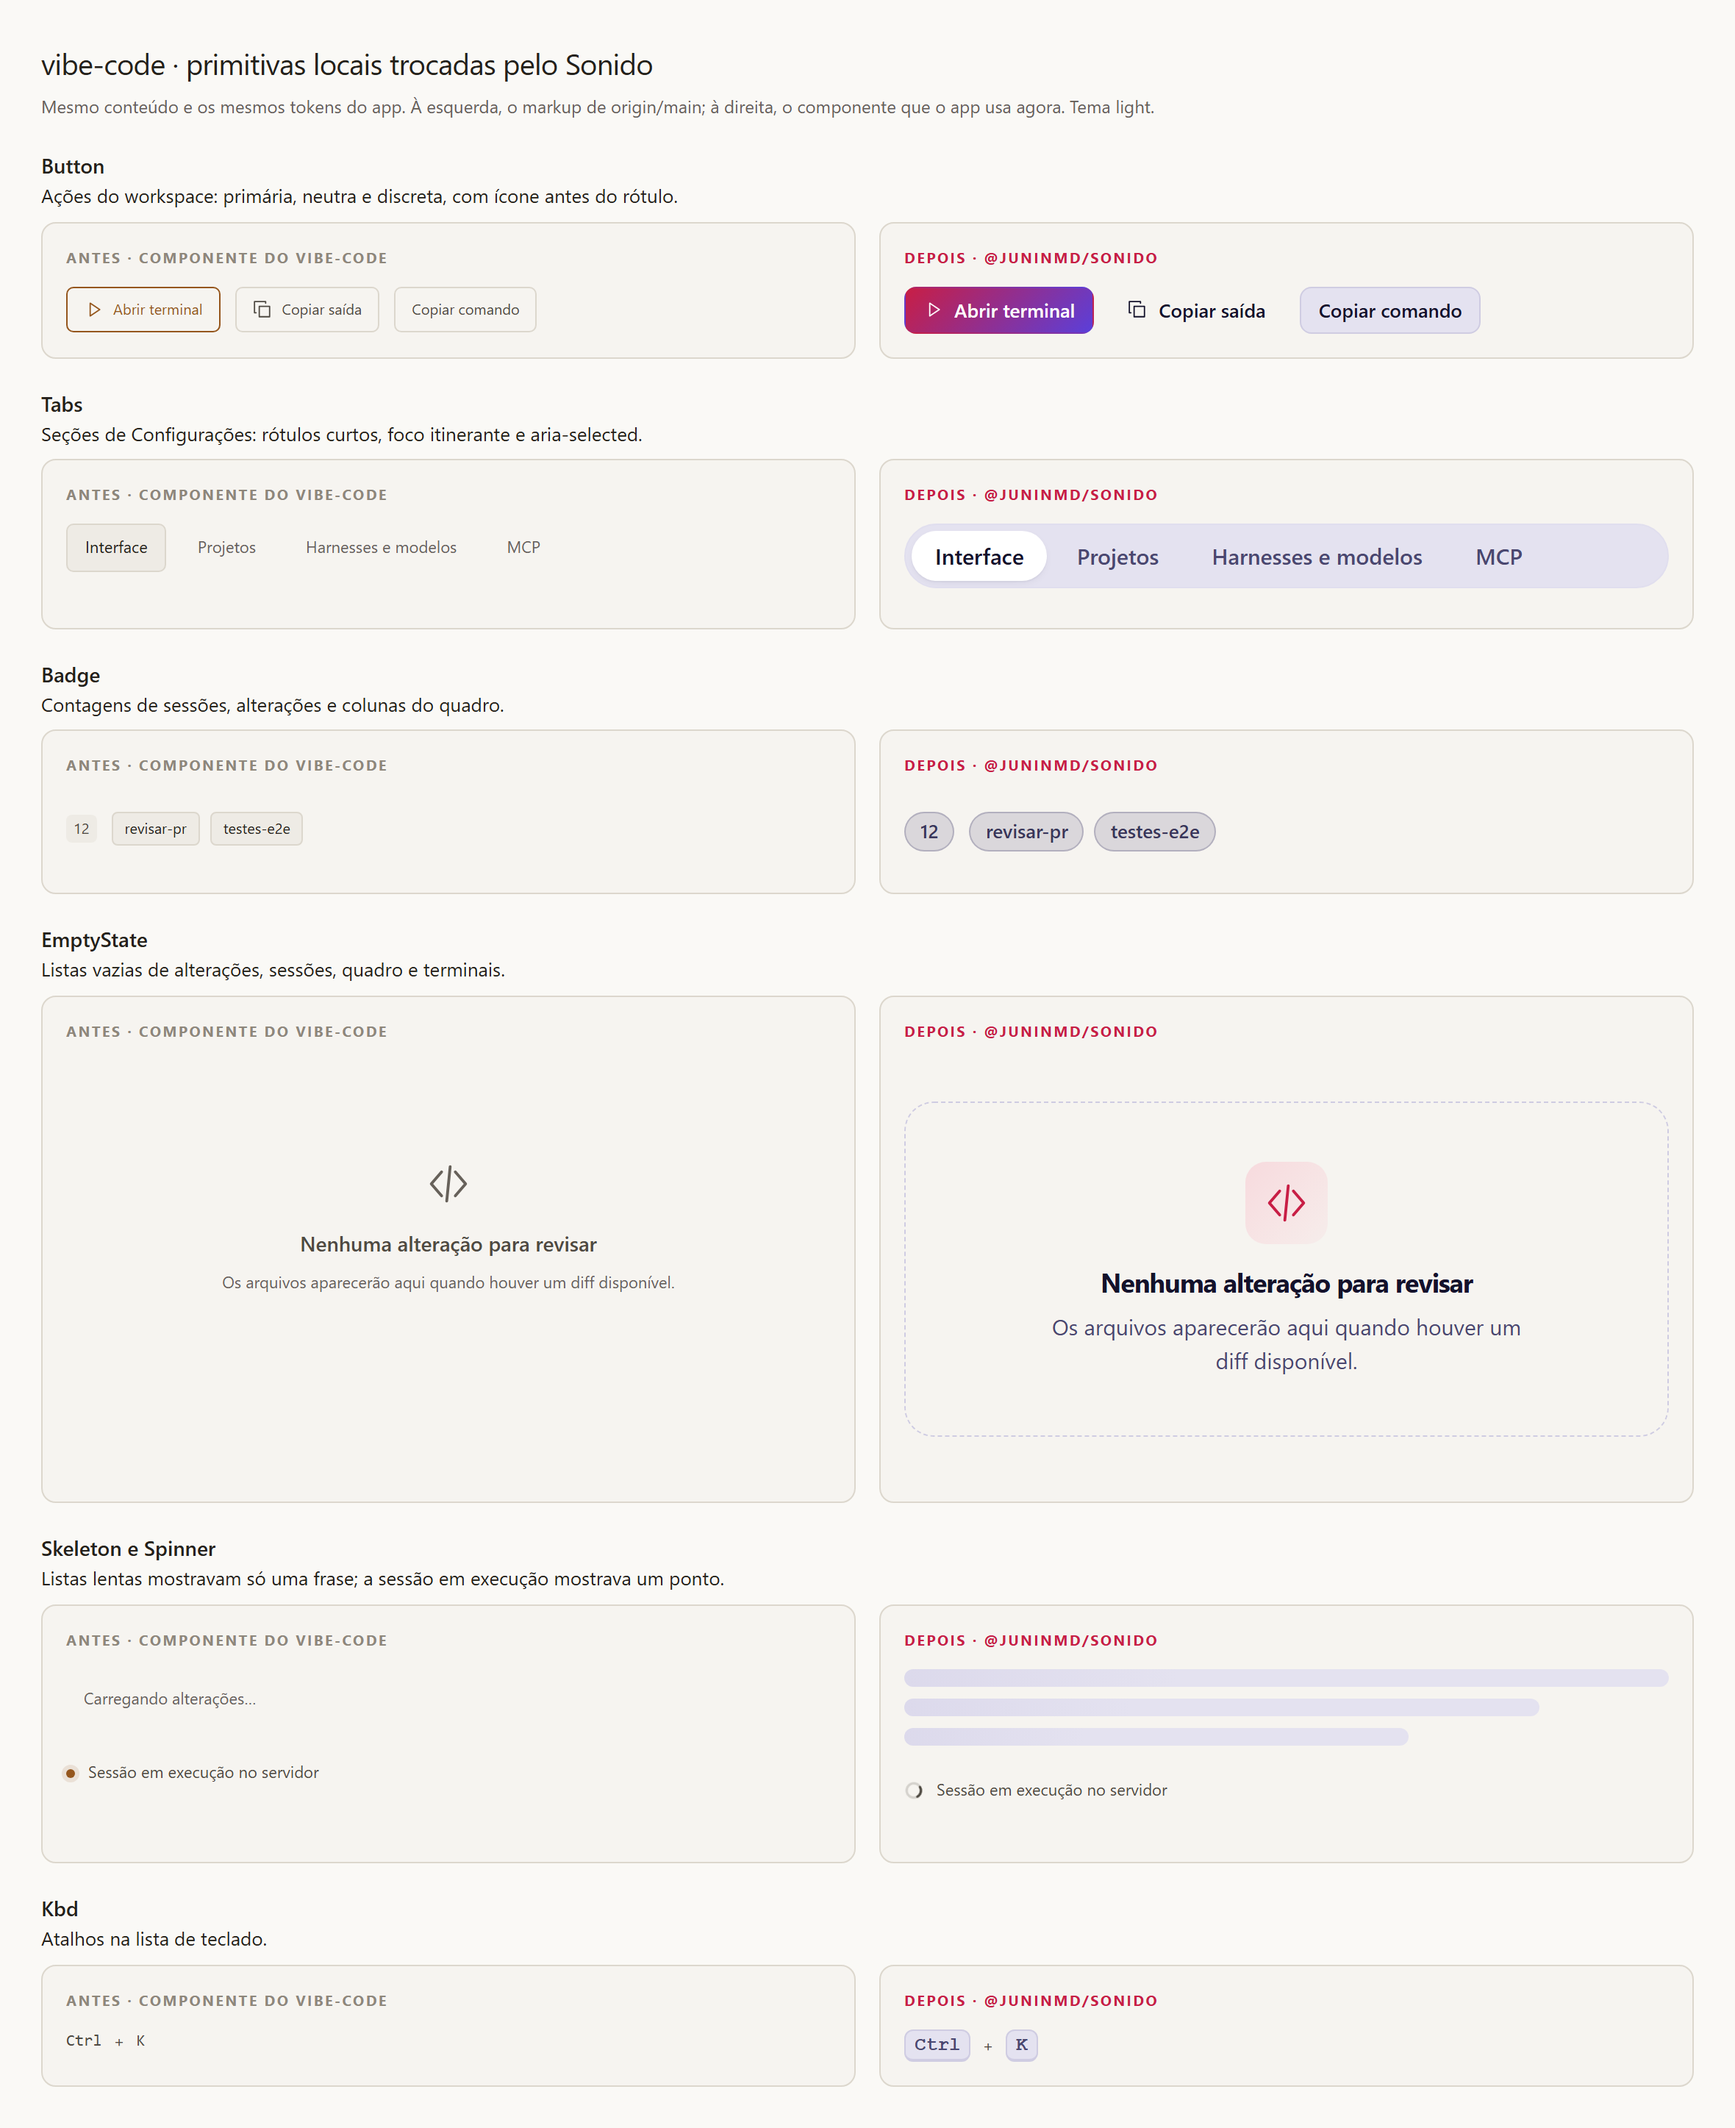
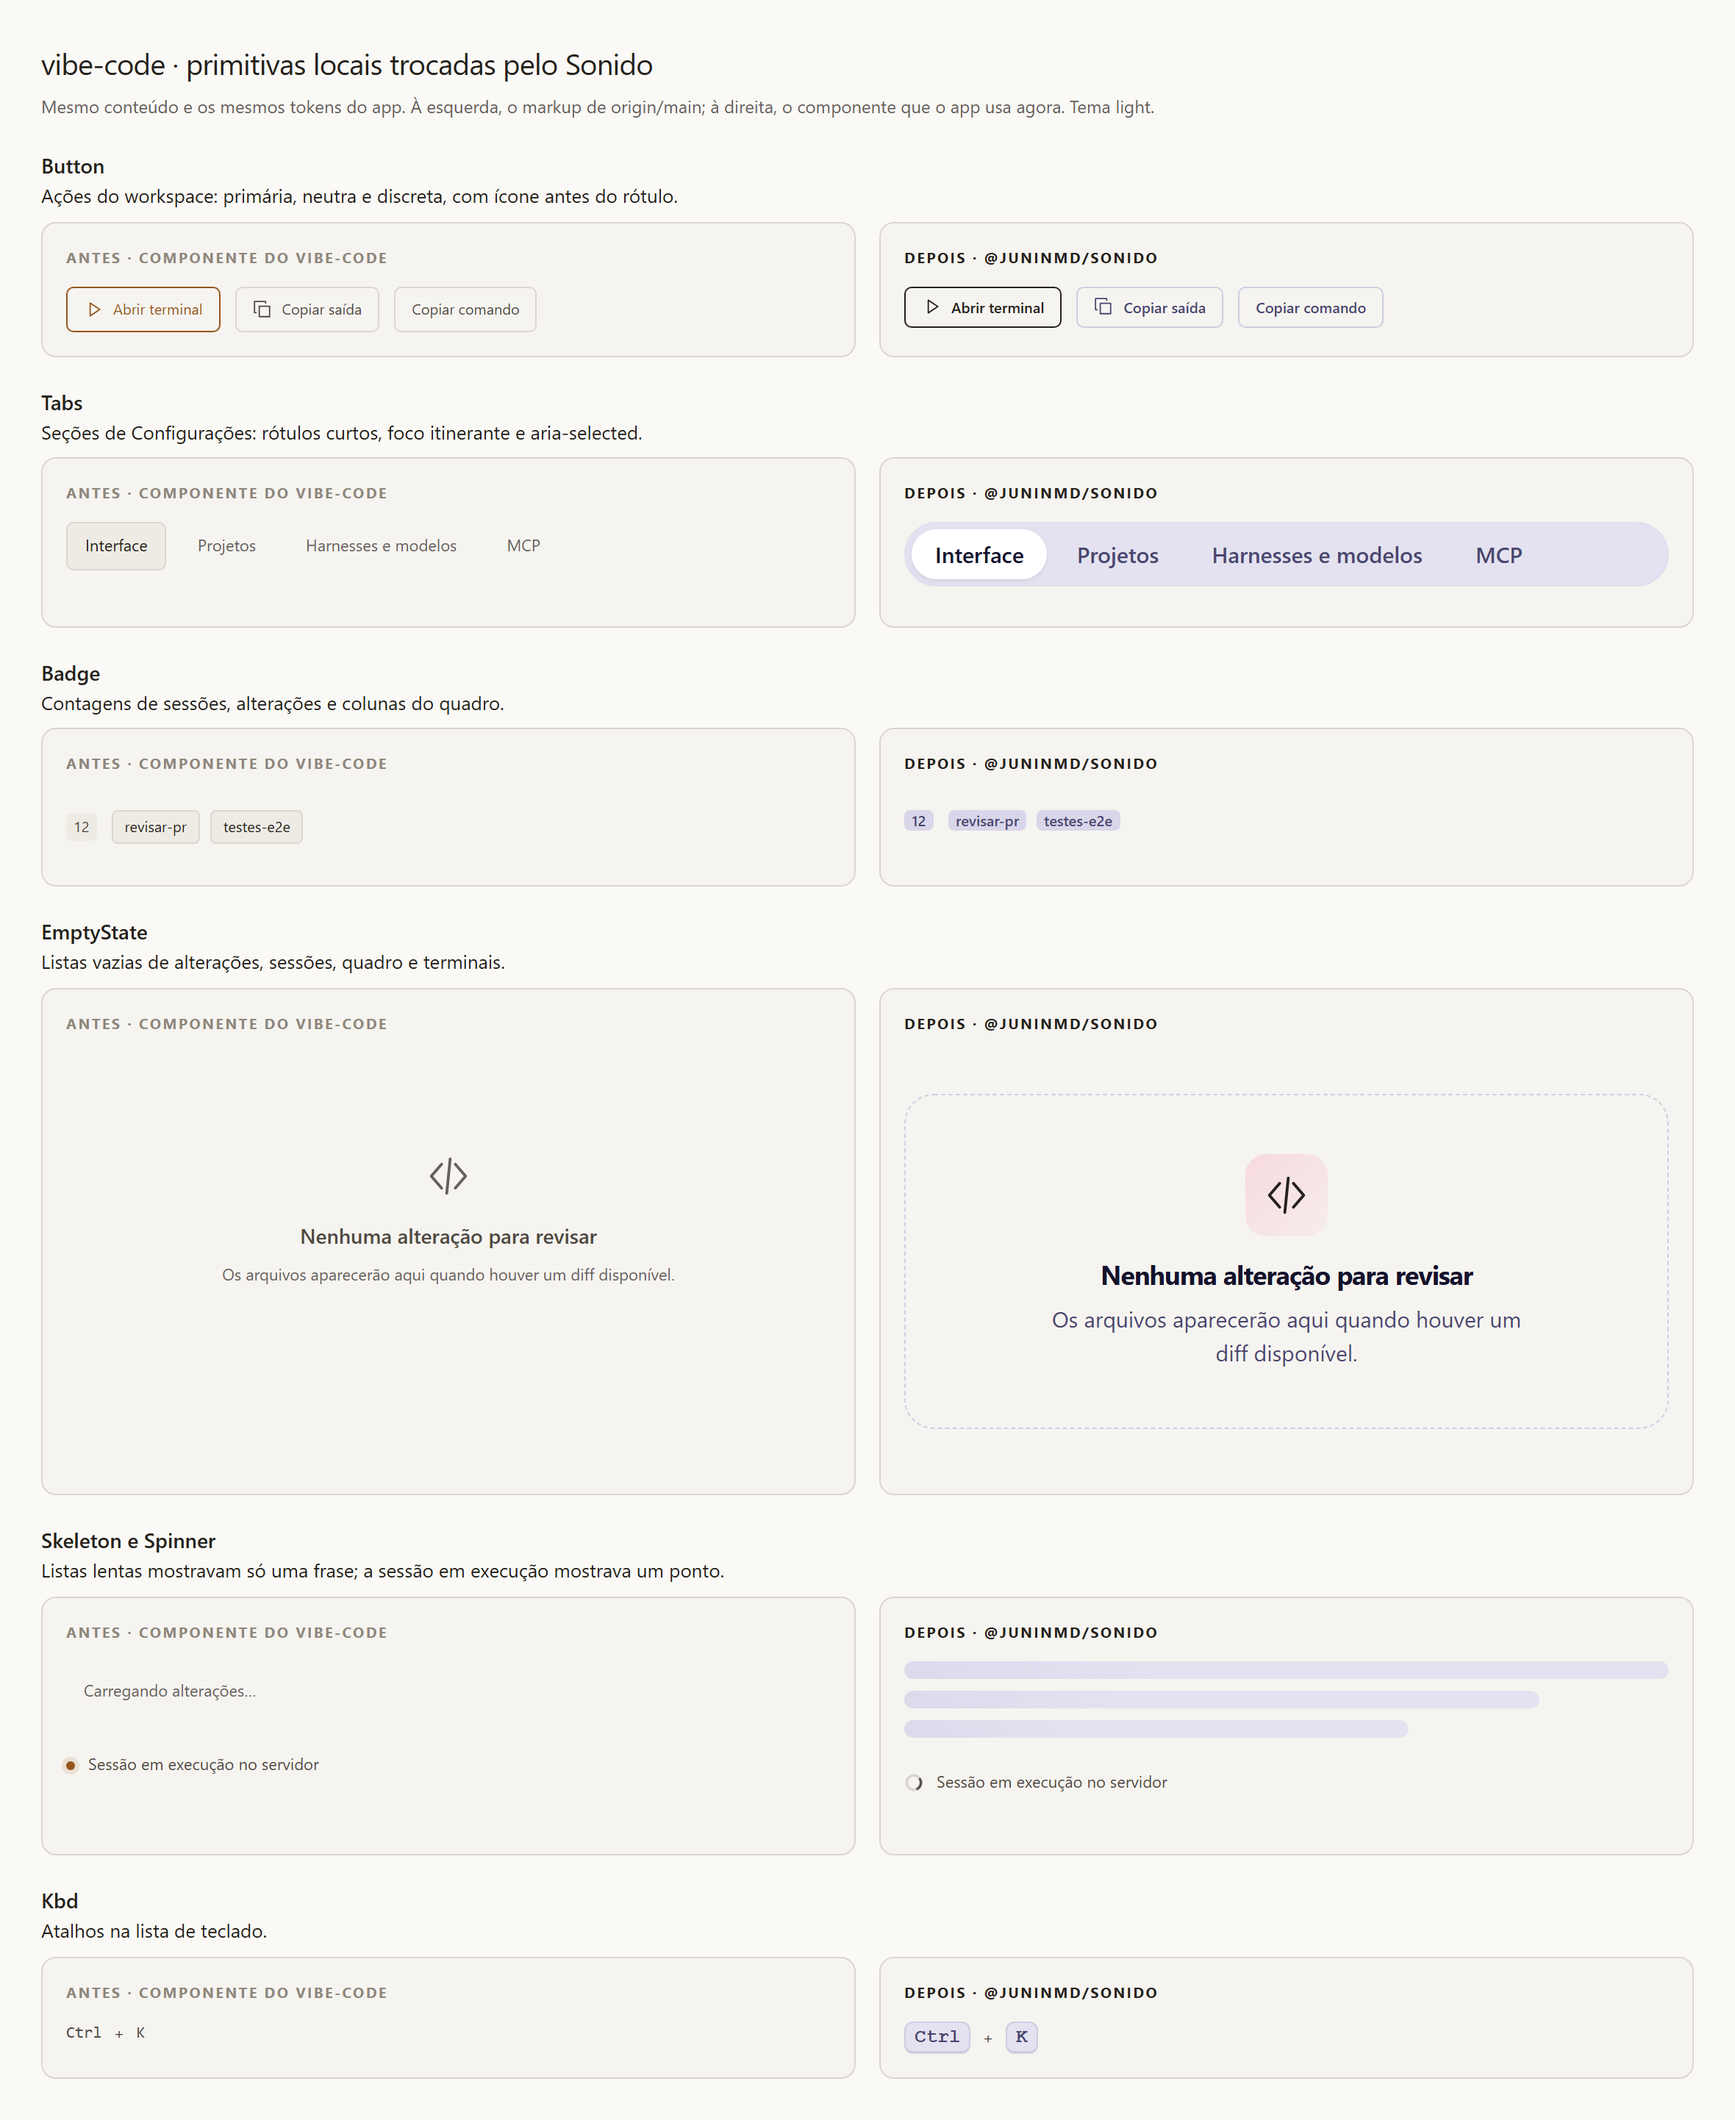
feat(web): botao e selo mantem a identidade do workspace
Button usa appearance=outline size=xs e Badge usa appearance=count, ambos do Sonido 2.4.0.

O accent do Sonido aponta para --rw-accent na ponte, entao o contorno primario volta a ser sepia.

diff --git a/packages/web/src/ui/Button.tsx b/packages/web/src/ui/Button.tsx
@@ -1,9 +1,9 @@
 import { type ButtonProps, Button as SonidoButton } from "@juninmd/sonido";
 
-/** The app's own vocabulary for the three weights it used in `workspace.css`. */
+/** The app's own vocabulary for the weights it used in `workspace.css`. */
 export type AppButtonVariant = "primary" | "default" | "subtle" | "danger";
 
-export interface AppButtonProps extends Omit<ButtonProps, "variant" | "size"> {
+export interface AppButtonProps extends Omit<ButtonProps, "variant" | "size" | "appearance"> {
   variant?: AppButtonVariant;
 }
 
@@ -15,9 +15,9 @@ const VARIANT = {
 } as const;
 
 /**
- * A thin bridge over Sonido's Button: same props as the design system, with the app keeping
- * its names for the three weights (`default`, `subtle`) that were CSS classes before.
+ * The workspace's compact outlined button, now Sonido's `appearance="outline" size="xs"`.
+ * The app keeps only its names for the three weights (`default`, `subtle`) that were CSS classes.
  */
 export function Button({ variant = "default", ...rest }: AppButtonProps) {
-  return <SonidoButton size="sm" variant={VARIANT[variant]} {...rest} />;
+  return <SonidoButton appearance="outline" size="xs" variant={VARIANT[variant]} {...rest} />;
 }

diff --git a/packages/web/src/ui/Badge.tsx b/packages/web/src/ui/Badge.tsx
@@ -1,14 +1,14 @@
 import { type BadgeProps, Badge as SonidoBadge } from "@juninmd/sonido";
 import type { HTMLAttributes, ReactNode } from "react";
 
-/** A count or a category pill; Sonido owns the tone scale and the contrast fix. */
+/** The workspace's 10px count block; Sonido owns the size, the raised surface and the contrast. */
 export function Badge({
   children,
   tone = "neutral",
   ...rest
 }: { children: ReactNode; tone?: BadgeProps["tone"] } & HTMLAttributes<HTMLSpanElement>) {
   return (
-    <SonidoBadge tone={tone} {...rest}>
+    <SonidoBadge appearance="count" tone={tone} {...rest}>
       {children}
     </SonidoBadge>
   );

diff --git a/packages/web/src/sonido-bridge.css b/packages/web/src/sonido-bridge.css
@@ -40,3 +40,11 @@
     padding-inline: 12px;
   }
 }
+
+/*
+ * The workspace's accent is part of its identity: Sonido's outline button paints its border and
+ * label with --sn-color-accent, so point that token at the app's own accent instead of the coral.
+ */
+body {
+  --sn-color-accent: var(--rw-accent);
+}
